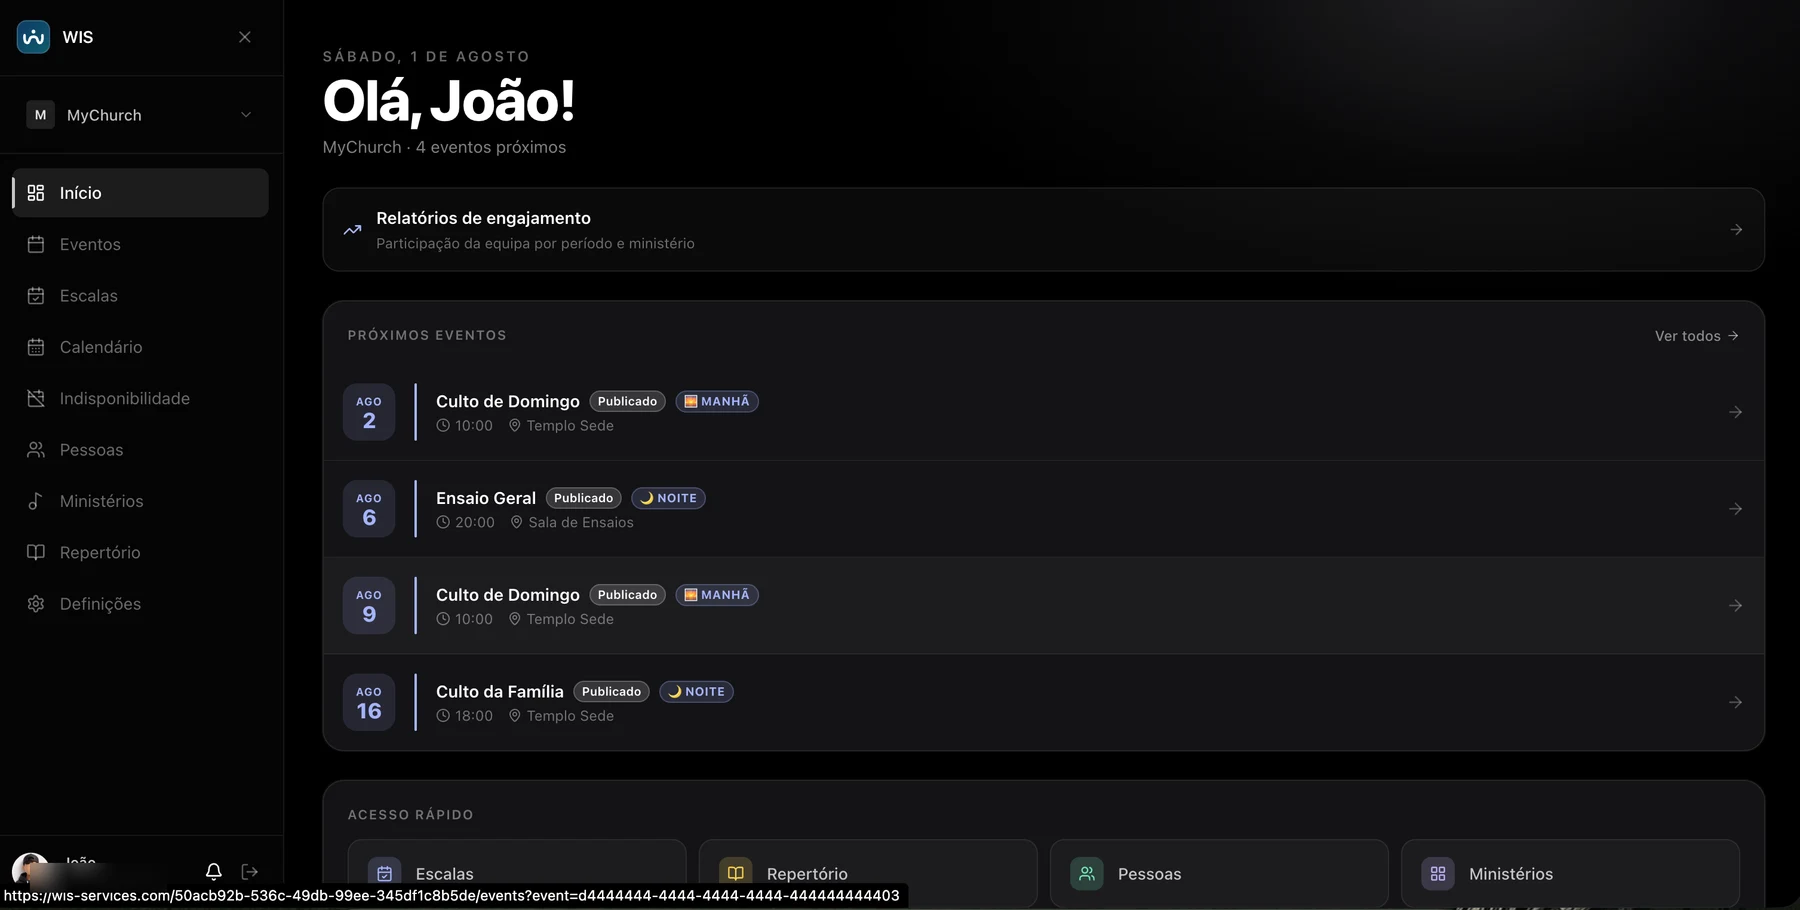
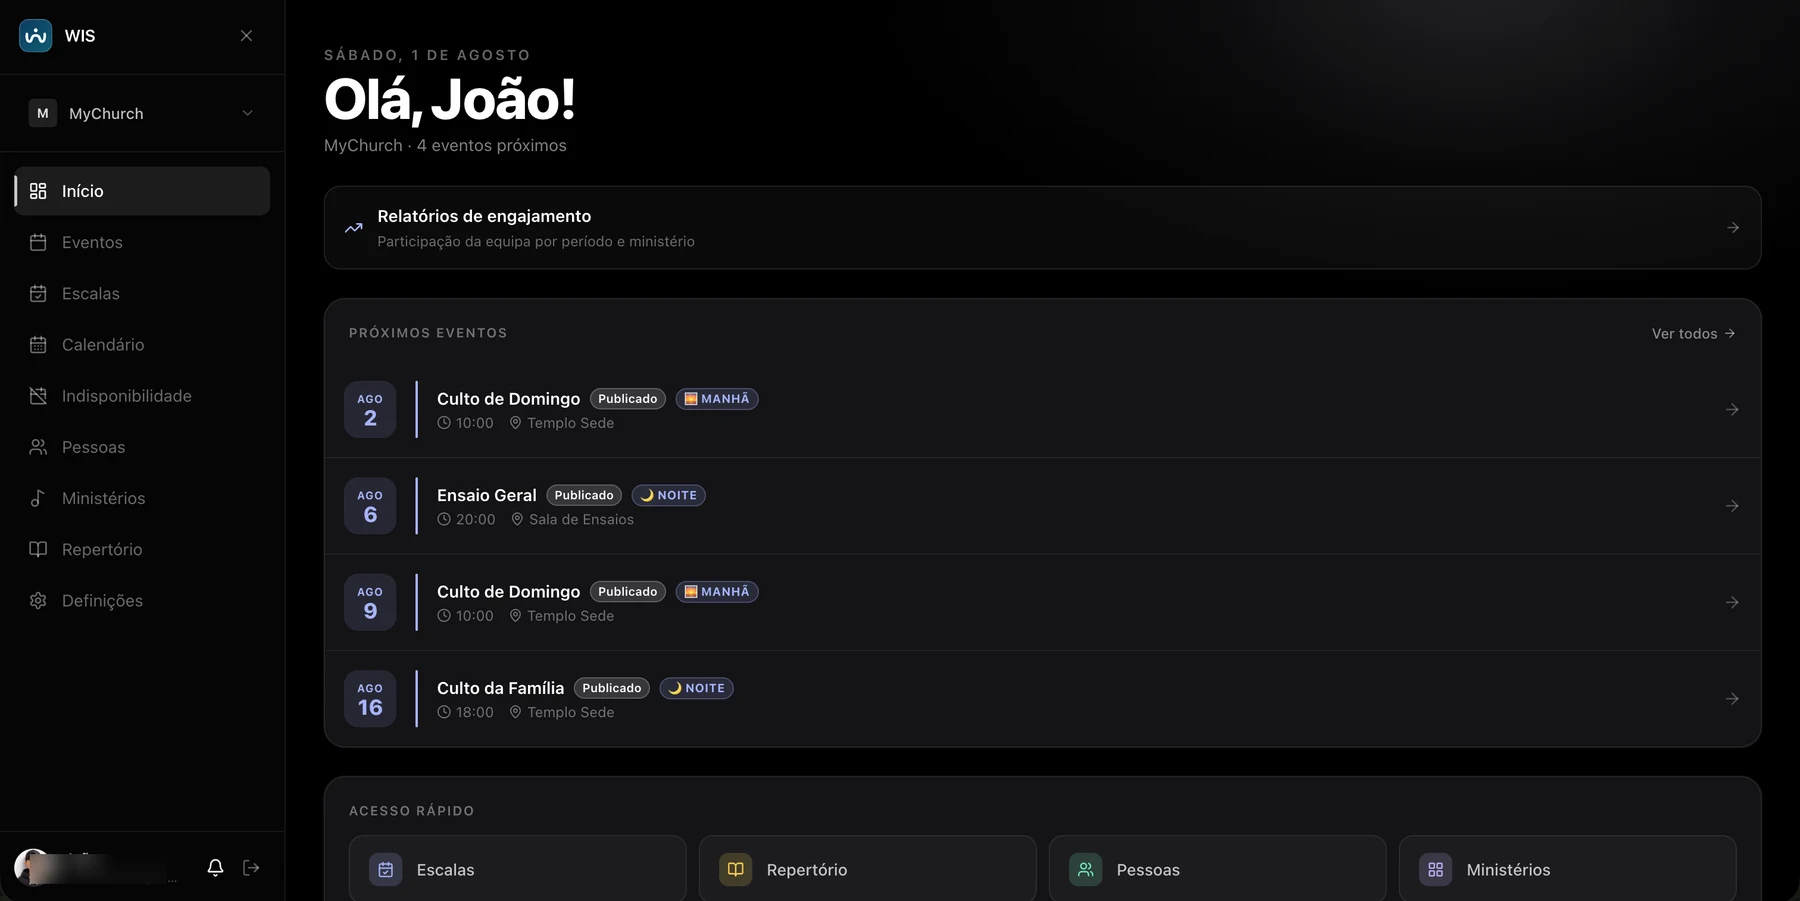
fix(landing): ajustes de conteúdo e chips do hero em /planos
- Troca a captura do primeiro Mac (Início) pela nova versão enviada,
  já com o email ofuscado.
- Remove "pra sempre" do texto abaixo dos CTAs do hero.
- Corrige o mockup do assistente de evento: os passos reais são
  Informações/Ministérios/Integrantes/Setlist/Roteiro — não existe
  passo "Rever".
- Chips flutuantes: ganham ícone, 3 tamanhos (sm/md/lg) e mais 2 chips
  novos ("3 canais de aviso", "CSV importado").
- Melhora o texto do bloco "Eventos".

diff --git a/src/app/planos/PlanosClient.tsx b/src/app/planos/PlanosClient.tsx
@@ -139,7 +139,7 @@ export function PlanosClient({ plans }: Props) {
           </a>
         </div>
         <p style={{ fontSize: '0.78rem', color: 'rgba(255,255,255,0.35)' }}>
-          Plano Semente grátis pra sempre · sem cartão
+          Plano Semente grátis · sem cartão
         </p>
       </section>
 
@@ -180,7 +180,7 @@ export function PlanosClient({ plans }: Props) {
       <section style={{ maxWidth: '72rem', margin: '0 auto', padding: '4rem 1.25rem', display: 'flex', flexDirection: 'column', gap: '5rem' }}>
         <ProductBlock
           n="01" title="Eventos" reverse={false}
-          desc="Cada culto em uma só tela: quem está escalado em cada ministério, o roteiro do momento e a ordem das músicas do dia."
+          desc="Monte o culto do começo ao fim: quem está escalado em cada ministério, a setlist na ordem certa e o roteiro minuto a minuto — tudo pronto pra publicar e avisar a equipe."
           chips={[
             { icon: ListChecks, label: 'Rascunho → publicação' },
             { icon: Music2, label: 'Setlist do culto' },
@@ -544,9 +544,11 @@ function ProductComposition() {
         <IPhoneFrame src="/screenshots/mobile-eventos-equipa.webp" alt="Confirmações de presença da equipe de Louvor, no celular" />
       </div>
 
-      <FloatingChip label="Presença confirmada" top="6%" left="-2%" delay="0s" />
-      <FloatingChip label="Escala publicada" top="46%" left="-6%" delay="0.8s" />
-      <FloatingChip label="Setlist pronto · 5 músicas" top="86%" left="4%" delay="1.6s" />
+      <FloatingChip icon={UserCheck} label="Presença confirmada" top="2%" left="-4%" delay="0s" size="md" />
+      <FloatingChip icon={Bell} label="Escala publicada" top="38%" left="-9%" delay="0.9s" size="lg" />
+      <FloatingChip icon={Music2} label="Setlist pronto · 5 músicas" top="80%" left="2%" delay="1.7s" size="md" />
+      <FloatingChip icon={Bell} label="3 canais de aviso" top="16%" right="-6%" delay="0.4s" size="sm" />
+      <FloatingChip icon={Sparkles} label="CSV importado" top="62%" right="8%" delay="1.3s" size="sm" />
     </div>
   );
 }
@@ -605,20 +607,36 @@ function IPhoneFrame({ src, alt }: { src: string; alt: string }) {
   );
 }
 
-function FloatingChip({ label, top, left, delay }: { label: string; top: string; left: string; delay: string }) {
+const CHIP_SIZES = {
+  sm: { padding: '0.35rem 0.7rem', fontSize: '0.66rem', iconBox: '1.1rem', iconSize: '0.62rem' },
+  md: { padding: '0.45rem 0.85rem', fontSize: '0.75rem', iconBox: '1.3rem', iconSize: '0.7rem' },
+  lg: { padding: '0.55rem 1rem', fontSize: '0.85rem', iconBox: '1.5rem', iconSize: '0.8rem' },
+};
+
+function FloatingChip({ icon: Icon, label, top, left, right, delay, size = 'md' }: {
+  icon: typeof Music2; label: string; top: string; left?: string; right?: string; delay: string;
+  size?: 'sm' | 'md' | 'lg';
+}) {
+  const s = CHIP_SIZES[size];
   return (
     <div
       className="hidden md:flex"
       style={{
-        position: 'absolute', top, left, zIndex: 3,
-        alignItems: 'center', gap: '0.4rem', padding: '0.45rem 0.8rem', borderRadius: '9999px',
-        background: 'rgba(20,22,26,0.85)', border: '1px solid rgba(255,255,255,0.14)',
-        backdropFilter: 'blur(10px)', WebkitBackdropFilter: 'blur(10px)', fontSize: '0.72rem', fontWeight: 600, color: '#fff',
-        boxShadow: '0 8px 24px -8px rgba(0,0,0,0.5)',
+        position: 'absolute', top, left, right, zIndex: 3,
+        alignItems: 'center', gap: '0.45rem', padding: s.padding, borderRadius: '9999px',
+        background: 'rgba(20,22,26,0.9)', border: '1px solid rgba(255,255,255,0.14)',
+        backdropFilter: 'blur(10px)', WebkitBackdropFilter: 'blur(10px)', fontSize: s.fontSize, fontWeight: 600, color: '#fff',
+        boxShadow: '0 8px 24px -8px rgba(0,0,0,0.55)', whiteSpace: 'nowrap',
         animation: `wis-float 4s ease-in-out ${delay} infinite`,
       }}
     >
-      <span style={{ width: 6, height: 6, borderRadius: '9999px', background: '#8fd0ea' }} />
+      <span style={{
+        flexShrink: 0, width: s.iconBox, height: s.iconBox, borderRadius: '9999px',
+        display: 'inline-flex', alignItems: 'center', justifyContent: 'center',
+        background: 'rgba(143,208,234,0.18)',
+      }}>
+        <Icon style={{ width: s.iconSize, height: s.iconSize, color: '#8fd0ea' }} />
+      </span>
       {label}
       <style>{`@keyframes wis-float { 0%, 100% { transform: translateY(0); } 50% { transform: translateY(-8px); } }`}</style>
     </div>
@@ -665,23 +683,23 @@ function ProductBlock({ n, title, desc, chips, reverse, macSrc, macAlt, phoneSrc
 }
 
 function WizardMock() {
-  const steps = ['Detalhes', 'Ministérios', 'Setlist', 'Roteiro', 'Rever'];
+  const steps = ['Informações', 'Ministérios', 'Integrantes', 'Setlist', 'Roteiro'];
   return (
     <div style={{ ...card, padding: '1.5rem' }}>
       <div style={{ display: 'flex', gap: '0.5rem', marginBottom: '1.25rem', flexWrap: 'wrap' }}>
         {steps.map((s, i) => (
           <span key={s} style={{
             fontSize: '0.72rem', fontWeight: 600, padding: '0.3rem 0.75rem', borderRadius: '9999px',
-            background: i === 1 ? '#8fd0ea' : 'rgba(255,255,255,0.05)',
-            color: i === 1 ? '#000' : 'rgba(255,255,255,0.45)',
-            border: i === 1 ? 'none' : '1px solid rgba(255,255,255,0.1)',
+            background: i === 4 ? '#8fd0ea' : 'rgba(255,255,255,0.05)',
+            color: i === 4 ? '#000' : 'rgba(255,255,255,0.45)',
+            border: i === 4 ? 'none' : '1px solid rgba(255,255,255,0.1)',
           }}>
             {i + 1}. {s}
           </span>
         ))}
       </div>
       <div style={{ display: 'grid', gridTemplateColumns: 'repeat(auto-fit, minmax(9rem, 1fr))', gap: '0.75rem' }}>
-        {['Louvor', 'Multimédia', 'Sonoplastia'].map((m) => (
+        {['Louvor', 'Mídia', 'Sonoplastia'].map((m) => (
           <div key={m} style={{
             padding: '0.9rem', borderRadius: '0.6rem', background: 'rgba(255,255,255,0.03)',
             border: '1px solid rgba(255,255,255,0.08)',
